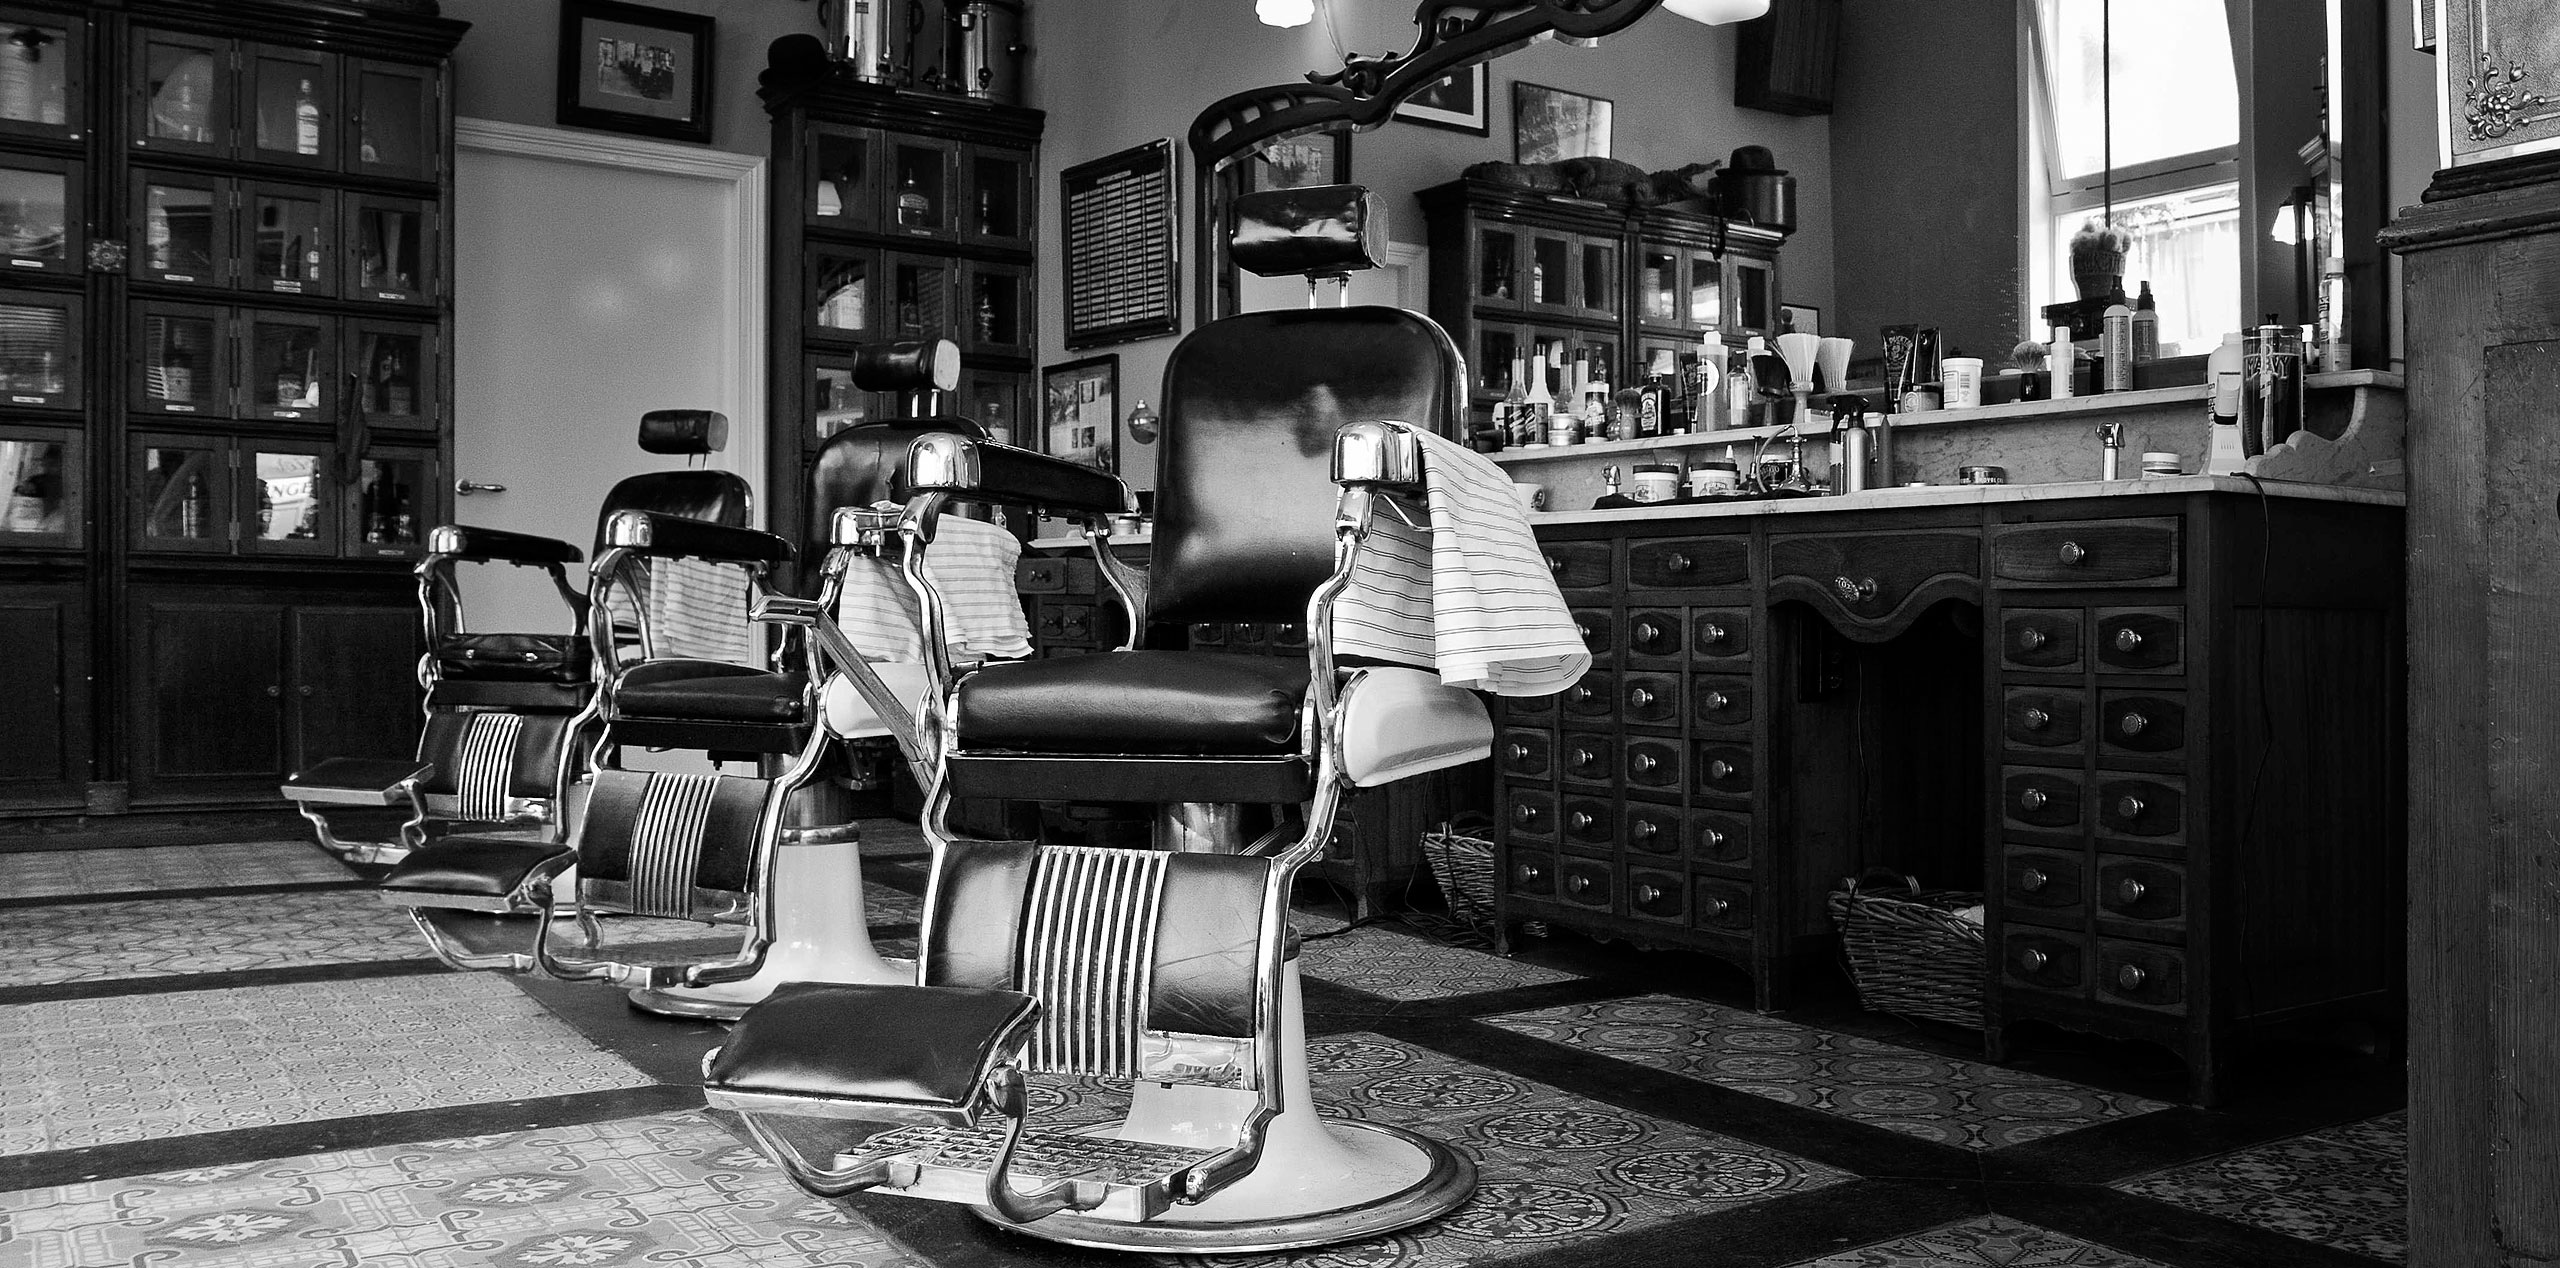
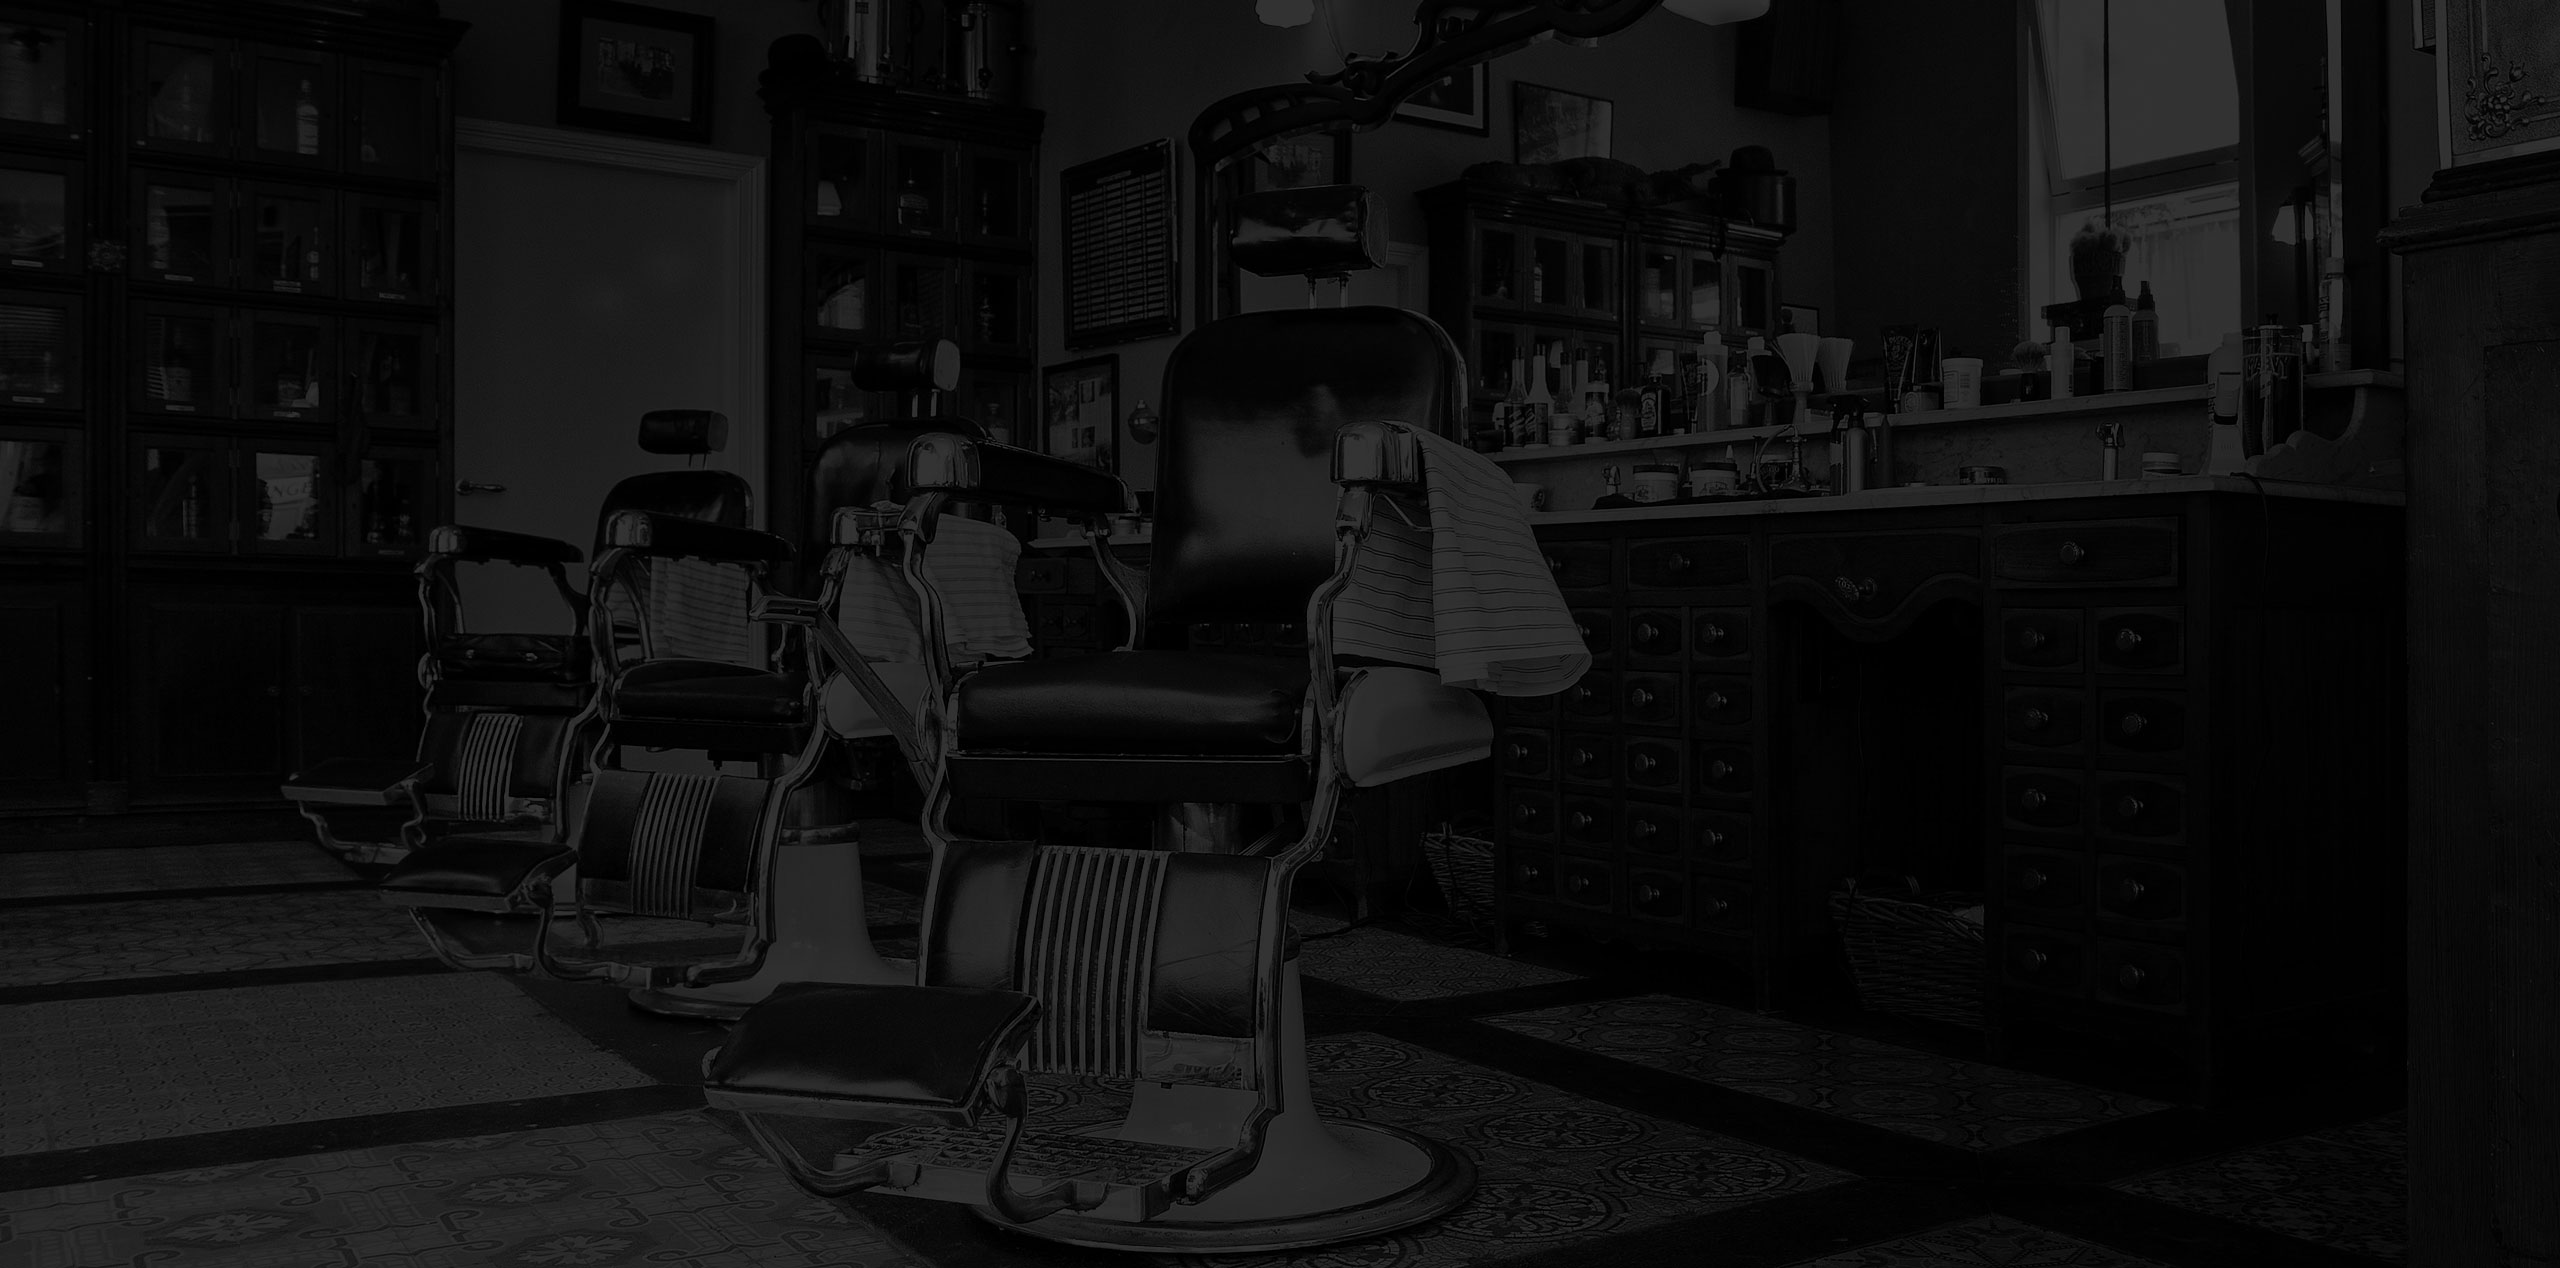
hw_11.04

diff --git a/index.html b/index.html
@@ -39,30 +39,93 @@
 				<main>
 					<div class="information">
 						<div class="info-block-1 info-wrap">
-							<h3 >БЫСТРО</h3>
+							<h3 >быстро</h3>
 							<div class="diamond"></div>
-							<p>МЫ ДЕЛАЕМ СВОЮ РАБОТУ БЫСТРО! ДВА ЧАСА ПРОЛЕТЯТ НЕЗАМЕТНО И ВЫ - СЧАСТЛИВЫЙ ОБЛАДАТЕЛЬ СТИЛЬНОЙ СТРИЖКИ-МИНУТКИ!</p>
+							<p>мы делаем свою работу быстро! два часа пролетят незаметно и вы - счастливый обладатель стильной стрижки-минутки!</p>
 						</div>
 
 						<div class="info-block-2 info-wrap">
-							<h3 >КРУТО</h3>
+							<h3 >круто</h3>
 							<div class="diamond"></div>
-							<p>ЗАБУДЬТЕ, КАК ВЫ СТРИГЛИСЬ РАНЬШЕ. МЫ СДЕЛАЕМ ИЗ ВАС ЗВЕЗДУ ФУТБОЛА ИЛИ КИНО! вО ВСЯКОМ СЛУЧАЕ ВНЕШНЕ</p>
+							<p>забудьте, как вы стриглись раньше. мы сделаем из вас звезду футбола или кино! во всяком случае внешне</p>
 						</div>
 
 						<div class="info-block-3 info-wrap">
-							<h3 >ДОРОГО</h3>
+							<h3 >дорого</h3>
 							<div class="diamond"></div>
-							<p>НАШИ МАСТЕРА — ПРОФЕССИОНАЛЫ СВОЕГО ДЕЛА И НЕ МОГУТ СТОИТЬ ДЕШЕВО. к ТОМУ ЖЕ, РАЗВЕ ЦЕНА НЕ ДАЕТ ОПРЕДЕЛЕННЫЙ СТАТУС?</p>
+							<p>наши мастера — профессионалы своего дела и не могут стоить дешево. к тому же, разве цена не дает определенный статус?</p>
 						</div>
 					</div>
+
+				<div class="contact-information contacts-wrapp">
+						<div class="contacts">
+							<h3>контактная информация</h3>
+						<div class="p-1">	
+							<p>barbershop "borodinski"</p>
+							<p>адрес: г Москва, ул. Собаки павлов, д.13</p>
+							<p>телефон: +7 (495) 666-02-666</p>
+						</div>	
+						<div class="p-2">	
+							<p>время работы:</p>
+							<p>пн - пт с 10:00 до 22:00</p>
+							<p>сб - вс с 10:00 до 19:00</p>
+						</div>	
+						<div class="buttons">
+							<a class="way" href="#">как проехать</a>
+							<a class="feedback" href="#">обратная связь</a>
+						</div>
+						</div>
+
+						<form class="sign_up">
+							<h3>записаться</h3>
+						<div class="p-1">	
+							<p>укажите желаемую дату и время и мы свяжемся с вами</p>
+							<p>для подтверждения брони</p>
+						</div>	
+						<div class="date-time input-style">
+							<input type="date" name="date" placeholder="Дата">
+							<input type="time" name="time" placeholder="Время">
+						</div>
+
+						<div class="name-tel input-style">
+							<input type="text" name="date" placeholder="Ваше имя">
+							<input type="tel" name="time" placeholder="Телефон">
+						</div>
+						<input type="submit" name="submit" value="отправить">
+					</form>
+				</div>
 
 				</main>
 		</div>
 
 		<footer class="footer">
 			<div class="container">
-
+				<div class="info-footer">	
+					<p>barbershop "borodinski"</p>
+					<p>адрес: г Москва, ул. Собаки павлов, д.13</p>
+					<p>телефон: +7 (495) 666-02-666</p>
+				</div>
+				<div class="socials-wrap">
+					<p>давай дружить</p>
+					<ul class="social">
+					<li class="vk">
+						<a href="#"><img src="images/v.png" alt="vk" 
+							></a>
+					</li>
+					<li class="facebook">
+						<a href="#"><img src="images/f.png" alt="fb" 
+							></a>
+					</li>
+					<li class="instagram">
+						<a href="#"><img src="images/i.png" alt="inst" 
+							></a>
+					</li>
+				</ul>
+				</div>	
+				<div class="rights">
+					<p>дизайн сайта</p>
+					<div class="rrr"><a class="feedback" href="#">glunkhanko.ru</a></div>
+				</div>
 			</div>
 		</footer>
 	</div>

diff --git a/css/style.css b/css/style.css
@@ -47,9 +47,9 @@ img{
 	display: block;
 	height: 0;
 }*/
-.body-wrapp{
+/*.body-wrapp{
 	background: rgba(0,0,0,0.6);
-}
+}*/
 .wraper{
 	overflow: hidden;
 	position: relative;
@@ -72,6 +72,7 @@ img{
 	left: 50%;
 	transform: translateX(-50%);
 	background: #000;
+	z-index: 10;
 /*	padding: 30px 0;
 	*/
 }
@@ -151,10 +152,15 @@ img{
 	padding-bottom: 58px;
 }
 .info-wrap{
+	position: static;
 	min-width: 33.3%;
 	width: 33.3%;
 	color: #fff;
 	font-size: 30px;
+	text-transform: uppercase;
+	flex-direction: column;
+    display: flex;
+    align-items: center;
 }
 .info-wrap p{
 	font-size: 14px;
@@ -165,17 +171,15 @@ img{
 .info-wrap h3{
 	text-align: center;
 	padding-bottom: 22px;
-	flex-direction: column;
+	/*flex-direction: column;
     display: flex;
-    align-items: center;
+    align-items: center;*/
 }
 .diamond {
     width: 25px;
     height: 25px;
     background: #fff;
     margin: 0 130px;
-
-
 /* Rotate */
     -webkit-transform: rotate(-45deg);
     -moz-transform: rotate(-45deg);
@@ -183,11 +187,160 @@ img{
     -o-transform: rotate(-45deg);
     transform: rotate(-45deg);
 /* Rotate Origin */
-    -webkit-transform-origin: 0 100%;
     -moz-transform-origin: 0 100%;
     -ms-transform-origin: 0 100%;
     -o-transform-origin: 0 100%;
 
+}
+
+.contact-information{
+	display: flex;
+	width: 940px;
+	height: 430px;
+	background: #f9f6f3;
+	margin: 0 auto;
+	/*padding: 0 0 64px 0;*/
+	margin-bottom: 64px;
+	padding: 56px 80px  62px 80px ;
+}
+.contacts-wrapp h3{
+	color: #000;
+	font-size: 30px;
+	text-transform: uppercase;
+	padding-bottom: 41px; 
+}
+.contacts-wrapp p{
+	color: #000;
+	font-size: 14px;
+	line-height: 24px;
+	text-transform: uppercase;
+
+}
+.p-1{
+	padding-bottom: 38px;
+}
+.p-2{
+	padding-bottom: 53px;
+}
+.contacts-wrapp a{
+	color: #fff;
+	font-size: 14px;
+	text-transform: uppercase;
+	text-decoration: none;
+	padding: 16px 32px;
+	background: #000;
+	margin-right: 20px;
+}
+.contacts-wrapp a:hover{
+	background: #663d15;
+}
+.input-style input{
+	width: 136px;
+	height: 39px;
+	background: #f9f6f3;
+	border: 2px solid #000;
+	margin-right: 20px;
+	margin-bottom: 19px;
+	padding-left: 15px;
+
+}
+::-webkit-input-placeholder {
+	color: #000;
+}
+.name-tel{
+	margin-bottom: 15px;
+}
+.sign_up{
+	padding-left: 96px;
+}
+input[type=submit]{
+	border: none;
+	color: #fff;
+	font-size: 14px;
+	text-transform: uppercase;
+	text-decoration: none;
+	padding: 16px 119px;
+	background: #000; 
+}
+.contacts-wrapp input[type=submit]:hover{
+	background: #663d15;
+	cursor: pointer;
+	border: none;
+}
+.contacts-wrapp input:hover{
+	border: 2px solid #663d15;
+	cursor: pointer;
+}
+.contacts-wrapp input:active{
+	border: 2px solid #663d15;
+	cursor: pointer;
+}
+
+.footer{
+	width: 100%;
+	background: #202020;
+	padding: 63px 0;
+
+}
+.footer .container {
+	display: flex;
+	justify-content: space-between;
+	align-items: center;
+}
+.footer .p-1{
+	padding-bottom: 38px;
+}
+
+.social{
+/*	padding: 10px 15px;*/
+	display: inline-flex;
+	flex-wrap: wrap;
+}
+.social li{
+	margin: 6px;	
+}
+.social a{
+	background:#000;
+	width: 43px;
+	height: 43px;
+	display: flex;
+	align-items: center;
+	justify-content: center;
+}
+.social a:hover{
+	background:#663d15;
+
+}
+.socials-wrap, 
+.rights p{
+	color: #fff;
+	font-size: 14px;
+	line-height: 24px;
+	text-transform: uppercase;
+	text-align: center;
+
+}
+.info-footer p{
+	color: #fff;
+	font-size: 14px;
+	line-height: 24px;
+	text-transform: uppercase;
+
+}
+.rights a{
+	color: #fff;
+	font-size: 14px;
+	text-transform: uppercase;
+	text-decoration: none;
+	padding: 16px 32px;
+	background: #000;
+	margin-top: 3px;
+}
+.rights a:hover{
+	background: #663d15;
+}
+.rrr{
+	margin: 20px;
 }
 
 @media(max-width: 768px){
@@ -201,6 +354,20 @@ img{
 		padding: 15px;
 		justify-content: center;
 	}
+	.contact-information{
+		display: flex;
+		width: 90%;
+		flex-wrap: wrap;
+		height: auto;
+
+	}
+	.button{
+		display: flex;
+		flex-direction: column;
+		flex-wrap: wrap;
+		justify-content: center;
+	}
+
 }
 @media(max-width: 520px){
 	.info-wrap{
